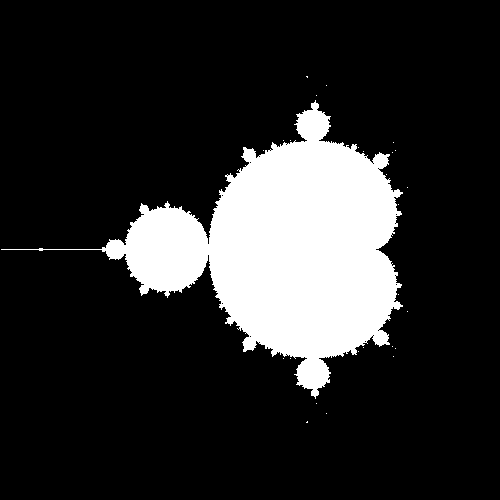
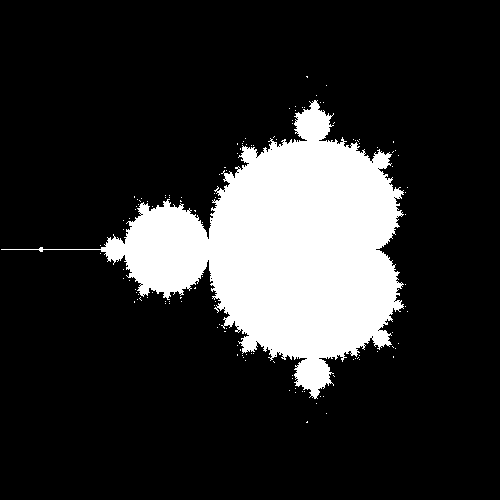
JOUR 2 matin

diff --git a/src/main.cpp b/src/main.cpp
@@ -365,7 +365,7 @@ sil::Image Fractale(){
     sil::Image image{500, 500};
     float a{};
     float b{}; // z=a+ib
-    int itemax=200;
+    int itemax=50;
     std::complex<float> c{a, b}; // c=a+ib
     //valeur aléatoire
    for (int x = 0; x < image.width(); x++){
@@ -395,8 +395,156 @@ return image;
                
 }
 
+sil::Image DegradeColor1(){
+
+    sil::Image image{300, 200}; //on cree une image en noire 
+    for (int x{0}; x < image.width(); x++)
+    {
+
+        for (int y{0}; y < image.height(); y++)
+        {
+            float pourcentage= float(x)/float(image.width() - 1);
+             //on cree les vecteurs couleur rouge et vert
+             glm::vec3 rouge (1.f,0.f,0.f);
+             glm::vec3 vert(0.f,1.f,0.f);
+             //couleur mélangée
+             glm::vec3 couleur= glm::mix(rouge, vert, pourcentage);
+             //couleur au pixel
+             image.pixel(x,y).r= couleur.r;
+             image.pixel(x,y).b= couleur.b;
+             image.pixel(x,y).g= couleur.g;      
+        }
+    }
+    return image;
+}
+/////////////////////////////////////////////////////////////////////////////////////////
+struct Lab{ float L; float a; float b;};
+    Lab linear_srgb_to_oklab(glm::vec3 c){
+            //transfo oklab
+            float l = 0.4122214708f * c.r + 0.5363325363f * c.g + 0.0514459929f * c.b;
+	        float m = 0.2119034982f * c.r + 0.6806995451f * c.g + 0.1073969566f * c.b;
+	        float s = 0.0883024619f * c.r + 0.2817188376f * c.g + 0.6299787005f * c.b;
+            //racine cubique
+                float l_ = cbrtf(l);
+                float m_ = cbrtf(m);
+                float s_ = cbrtf(s);
+            // Tranfo en OKLab
+            return 
+        {0.2104542553f*l_ + 0.7936177850f*m_ - 0.0040720468f*s_,
+        1.9779984951f*l_ - 2.4285922050f*m_ + 0.4505937099f*s_,
+        0.0259040371f*l_ + 0.7827717662f*m_ - 0.8086757660f*s_,};
+}
 
 
+//on revient en RGB
+glm::vec3 oklab_to_linear_srgb(Lab c){
+    float l_ = c.L + 0.3963377774f * c.a + 0.2158037573f * c.b;
+    float m_ = c.L - 0.1055613458f * c.a - 0.0638541728f * c.b;
+    float s_ = c.L - 0.0894841775f * c.a - 1.2914855480f * c.b;
+    //puissance 3
+    float l = pow(l_,3);
+    float m =pow(m_,3);
+    float s = pow(s_,3);
+    //Tranfo en rgb
+       return {
+		+4.0767416621f * l - 3.3077115913f * m + 0.2309699292f * s,
+		-1.2684380046f * l + 2.6097574011f * m - 0.3413193965f * s,
+		-0.0041960863f * l - 0.7034186147f * m + 1.7076147010f * s,
+    };
+}
+
+glm::vec3 sRGB_to_Linear(glm::vec3 c){
+    //on parcourt les 3 composante de c
+    for (int i=0;i<3;i++){
+        if (c[i]<=0.04045){
+            c[i]=c[i]/12.92;
+        }
+        else{
+            c[i]=pow(((c[i]+0.055)/1.055),2.4);
+        }
+    }
+    return c;
+}
+
+glm::vec3 Linear_to_sRGB(glm::vec3 l){
+    //on parcourt les 3 composante de c
+    for (int i=0;i<3;i++){
+        if (l[i]<=0.0031308){
+            l[i]=l[i]*12.92;
+        }
+        else{
+            l[i]=(pow(l[i],(1/2.4)))*1.055-0.055;
+        }
+    }
+    return l;
+}
+
+
+
+
+
+
+//application à tous les pixels
+sil::Image DegradeColor2(){
+    sil::Image image{300,200};
+    //on cree les vecteurs couleur rouge et vert
+                glm::vec3 rouge (1.f,0.f,0.f);
+                glm::vec3 vert(0.f,1.f,0.f);
+
+            //on transforme en lineare puis OKlab
+                Lab rougeLab =linear_srgb_to_oklab(sRGB_to_Linear(rouge));
+                Lab vertLab = linear_srgb_to_oklab(sRGB_to_Linear(vert));
+
+    for (int x{0}; x < image.width(); x++)
+    {
+        for (int y{0}; y < image.height(); y++)
+            {
+                //on fait le mix à lq main
+                float pourcentage= float(x)/float(image.width() - 1);
+                Lab mixLab;
+                mixLab.L = rougeLab.L + pourcentage * (vertLab.L - rougeLab.L);
+                mixLab.a = rougeLab.a + pourcentage * (vertLab.a - rougeLab.a);
+                mixLab.b = rougeLab.b + pourcentage * (vertLab.b - rougeLab.b);
+
+                
+               //interpolation linéaire en OK lab
+               glm::vec3 resultat= Linear_to_sRGB(oklab_to_linear_srgb(mixLab));
+                //uitlisation de clamp pr rester dans le bon intervalle
+                image.pixel(x,y).r= glm::clamp(resultat.r, 0.f,1.f);
+                image.pixel(x,y).g= glm::clamp(resultat.g, 0.f,1.f);
+                image.pixel(x,y).b= glm::clamp(resultat.b, 0.f,1.f);
+
+            }
+             
+
+        }
+        return image;
+        }
+
+
+
+
+
+
+
+
+
+
+
+
+
+
+
+
+
+    ///////////////////////////////////////
+   
+/*
+//image pixel sil color != de vec3
+//image.pixel(x,y).r est un float
+//faut etre dans intervalle
+//faut mix à la main
+*/
 
 int main()
 {
@@ -490,4 +638,12 @@ int main()
     { sil::Image image=Fractale();
         image.save("output/Fractale.png");
     }
+
+    {sil::Image image = DegradeColor1();
+        image.save("output/DegradeColor1.png");
     }
+
+    {sil::Image image = DegradeColor2();
+        image.save("output/DegradeColor2.png");
+    }
+}

diff --git a/README.md b/README.md
@@ -4,14 +4,17 @@
 
 Exercice n°1 : Ne garder que le vert
 Mettre le bleu et le rouge à 0.
+
 ![](./output/greenImage.png)
 
 Exercice n°2 : Échanger les canaux
 Avec swap.
+
 ![](./output/swichCanal.png)
 
 Exercice n°3 : Noir et blanc
 Grace à la formule de luminance (rouge0.3 + vert0.59 + bleu\*0.11)
+
 ![](./output/BlackAndWhite.png)
 
 Exercice n°4 : Négatif
@@ -111,7 +114,22 @@ J'ai donc ajouté des conditions au moment des choix aléatoires : Choisir le mi
 
 ## Exercice n°15 : Fractale
 
-J'ai rencontré des difficultés pour modifier les coordonnées x et y pour les avoir dans les intervalles pertinent.
-Puis, j'ai rencontré le problème des couleurs, je n'ai pas de nuance de gris, que de noirs et du blanc
+J'ai rencontré des difficultés pour modifier les coordonnées x et y pour les avoir dans les intervalles pertinents.
+Puis, j'ai rencontré le problème des couleurs, je n'ai pas de nuances de gris, que de noirs et du blanc
 
 ![](./output/Fractale.png)
+
+## Exercice n°16 : Dégradé Couleur 1
+
+J'ai repris le code du D2gardé noir et blanc. J'ai ensuite utilisé la fonction qui permettait d'avoir le pourcentage de noir, pour avoir un pourcentage en paramètre de la fct mix.
+![](./output/DegradeColor1.png)
+
+## Exercice n°16 : Dégradé Couleur LAB
+
+J'ai eu beaucoup plus de difficulté avec cette parrie. Je mélangeait les types ( image.pixel =! sil::vec3, image.pixel(x,y)=! image.pixel(x,y).r etc...)
+J'ai ensuite eu du mal à comprendre dans quel ordre appliqué les transformation, mais grace à mes camarades j'ai réussi (sRGB->lin->OKLab->lin->sRGB).
+Je ne connaissais pas la fonction glm::clamp qui permettait d'atterrir dans un intervalle définie, ce qui m'a bloquée un moment.
+Enfin, la fonction mix ne fonctionne que pour des ouleur en sRGB donc il a fallu l'écrire à la main.
+Finalement j'ai réussi à obtenir un meilleur dégradé garce à cette méthode:
+
+![](./output/DegradeColor2.png)
